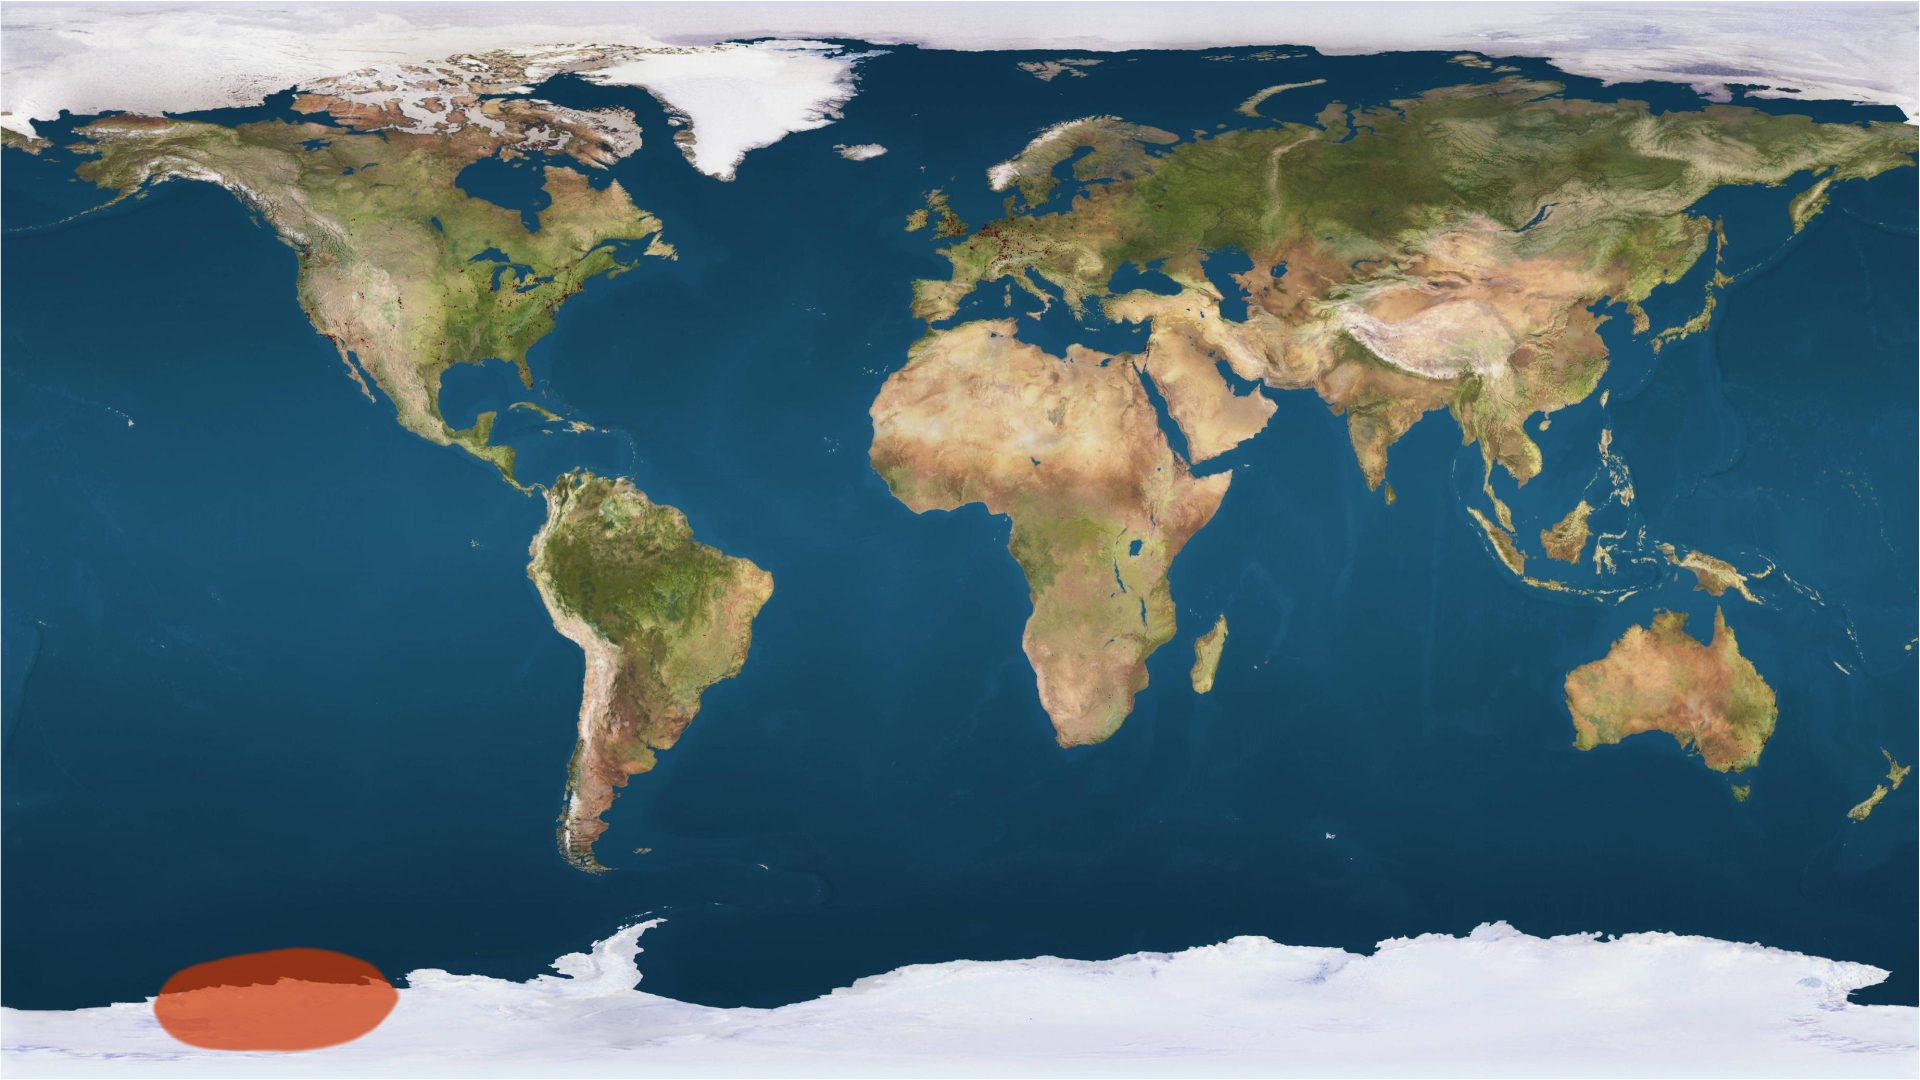
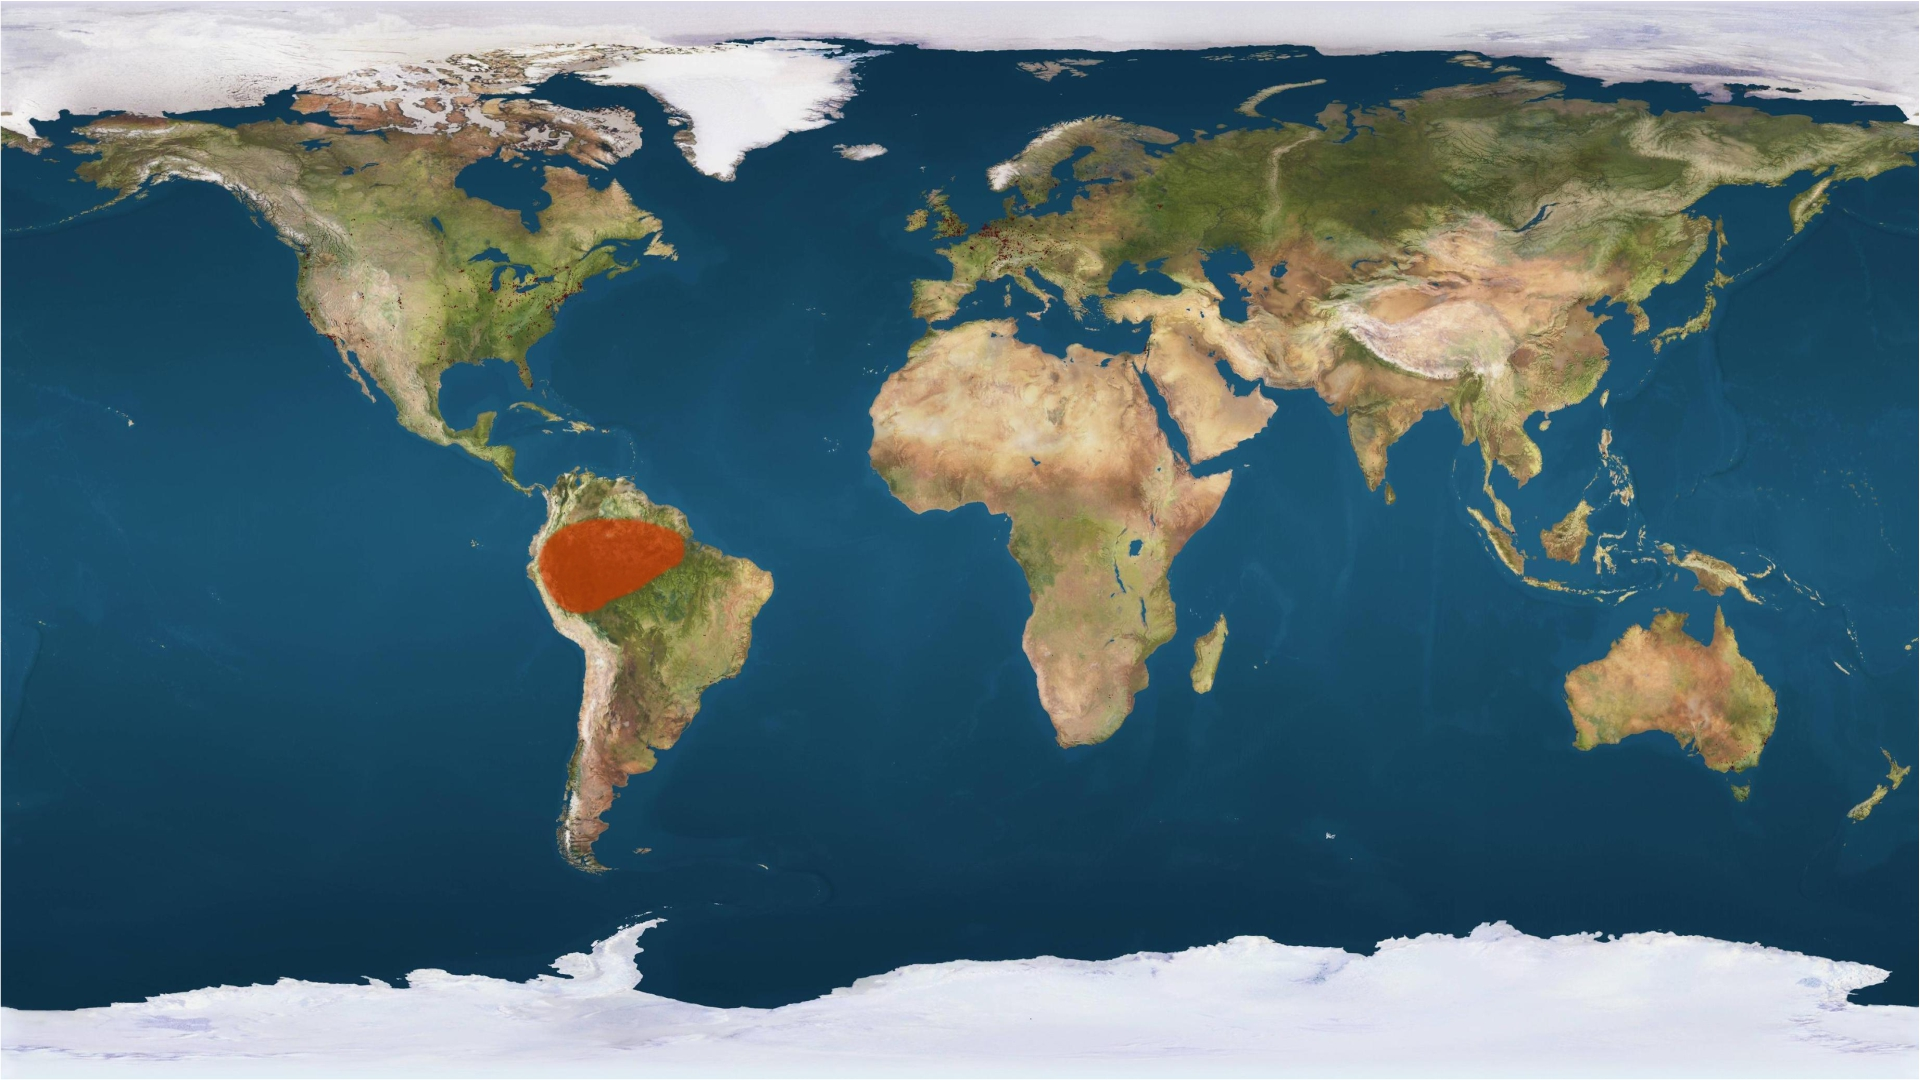
Upload 16:28

Changed region(s): [[0.0625, 0.8556, 0.2188, 0.9778], [0.2812, 0.4583, 0.375, 0.5806]]

diff --git a/assets/mappa/testo_semafori_data.js b/assets/mappa/testo_semafori_data.js
@@ -1,1 +1,1 @@
-var _testo_semafori = '[{"id":0,"semaforo": 1,"img": "1","title": "Alterazione della circolazione atlantica","testi":["L\'Atlantic Meridional Overturning Circulation (AMOC) fa parte di una più ampia rete di circolazione oceanica che trasporta calore in tutto il mondo. Si tratta di un sistema di correnti nell\'Oceano Atlantico con due componenti principali: la prima è il flusso di acqua calda e salata negli strati superiori dell\oceano verso nord partendo dal Golfo del Messico e alimentato dalla Corrente nordatlantica.","La seconda è il raffreddamento dell\'acqua che avviene alle alte latitudini dell\'Atlantico: l’acqua più densa affonda e ritorna verso l’equatore in profondità. Questa circolazione trasporta una grande quantità di energia termica dai tropici e dall\'emisfero australe verso il Nord Atlantico trasferendo calore all\'atmosfera per evaporazione.Il cambiamento climatico influisce su questo processo diluendo l\'acqua salata del mare con acqua dolce attraverso l\'aumento delle precipitazioni sull’Atlantico settentrionale subpolare e lo scioglimento del ghiaccio continentale soprattutto in prossimità della calotta glaciale della Groenlandia.","Questo rende l\'acqua più leggera e quindi meno capace di andare in profondità rallentando così l\'intero motore della circolazione.£Mentre nell\'Atlantico settentrionale si potrebbe generare un generale raffreddamento, minore evaporazione e quindi meno precipitazioni, nell\'Atlantico meridionale si assisterebbe a un riscaldamento con conseguente aumento delle inondazioni, delle emissioni di metano e della siccità, e, di conseguenza, un impatto negativo sulla produzione alimentare e sui sistemi umani. Potremmo osservare inoltre uno spostamento della zona di convergenza intertropicale, la grande area di bassa pressione che circonda la Terra vicino all\'equatore."]},{"id":1,"semaforo": 2,"img": "2","title": "Instabilità della calotta glaciale antartica occidentale","testi":["La calotta glaciale antartica occidentale (WAIS) è una porzione dell’Antartide che detiene abbastanza ghiaccio per cambiare le coste di tutto il mondo. La maggior parte dei ghiacciai dell’Antartide scorrono per gravità direttamente nelle profondità dell’oceano, la linea di messa a terra è il punto in cui la loro base lascia il fondo del mare e inizia a galleggiare trasformandosi in banchisa.","Insieme allo scioglimento dal basso causato dalle calde acque oceaniche, il riscaldamento globale sta sciogliendo la calotta da sopra, provocando una maggiore fusione della superficie. Ciò consente all’acqua di penetrare in profondità nelle lastre di ghiaccio. Successivamente quest’acqua raffreddandosi, frattura ulteriormente le lastre di ghiaccio dall’interno.","Attualmente la perdita di ghiaccio dal WAIS è compensata dalla estensione (o non arretramento) di altre regioni dell’Antartide grazie alla circolazione dell\'Oceano Australe.£Se collassasse la calotta glaciale antartica per effetto di eventi a cascata innescati dal continuo ritiro della linea di messa a terra nella regione occidentale, potrebbe causare un innalzamento del livello dei mari di 5 metri. La tendenza alla riduzione della salinità nelle acque antartiche alimentate dalla fusione del ghiaccio influenza la densità delle acque profonde e molto fredde che guidano le correnti oceaniche influenzando il clima in superficie ma soprattutto, potrebbero alterarsi i tempi dei cicli biologici iniziando dal fitoplancton, la base fondamentale della rete alimentare antartica."]}]'
+var _testo_semafori = '[{"id":1,"semaforo": 1,"img": "1","title": "Alterazione della circolazione atlantica","testi":["L\'Atlantic Meridional Overturning Circulation (AMOC) fa parte di una più ampia rete di circolazione oceanica che trasporta calore in tutto il mondo. Si tratta di un sistema di correnti nell\'Oceano Atlantico con due componenti principali: la prima è il flusso di acqua calda e salata negli strati superiori dell\oceano verso nord partendo dal Golfo del Messico e alimentato dalla Corrente nordatlantica.","La seconda è il raffreddamento dell\'acqua che avviene alle alte latitudini dell\'Atlantico: l’acqua più densa affonda e ritorna verso l’equatore in profondità. Questa circolazione trasporta una grande quantità di energia termica dai tropici e dall\'emisfero australe verso il Nord Atlantico trasferendo calore all\'atmosfera per evaporazione.Il cambiamento climatico influisce su questo processo diluendo l\'acqua salata del mare con acqua dolce attraverso l\'aumento delle precipitazioni sull’Atlantico settentrionale subpolare e lo scioglimento del ghiaccio continentale soprattutto in prossimità della calotta glaciale della Groenlandia.","Questo rende l\'acqua più leggera e quindi meno capace di andare in profondità rallentando così l\'intero motore della circolazione.£Mentre nell\'Atlantico settentrionale si potrebbe generare un generale raffreddamento, minore evaporazione e quindi meno precipitazioni, nell\'Atlantico meridionale si assisterebbe a un riscaldamento con conseguente aumento delle inondazioni, delle emissioni di metano e della siccità, e, di conseguenza, un impatto negativo sulla produzione alimentare e sui sistemi umani. Potremmo osservare inoltre uno spostamento della zona di convergenza intertropicale, la grande area di bassa pressione che circonda la Terra vicino all\'equatore."]},{"id":2,"semaforo": 2,"img": "2","title": "Instabilità della calotta glaciale antartica occidentale","testi":["La calotta glaciale antartica occidentale (WAIS) è una porzione dell’Antartide che detiene abbastanza ghiaccio per cambiare le coste di tutto il mondo. La maggior parte dei ghiacciai dell’Antartide scorrono per gravità direttamente nelle profondità dell’oceano, la linea di messa a terra è il punto in cui la loro base lascia il fondo del mare e inizia a galleggiare trasformandosi in banchisa.","Insieme allo scioglimento dal basso causato dalle calde acque oceaniche, il riscaldamento globale sta sciogliendo la calotta da sopra, provocando una maggiore fusione della superficie. Ciò consente all’acqua di penetrare in profondità nelle lastre di ghiaccio. Successivamente quest’acqua raffreddandosi, frattura ulteriormente le lastre di ghiaccio dall’interno.","Attualmente la perdita di ghiaccio dal WAIS è compensata dalla estensione (o non arretramento) di altre regioni dell’Antartide grazie alla circolazione dell\'Oceano Australe.£Se collassasse la calotta glaciale antartica per effetto di eventi a cascata innescati dal continuo ritiro della linea di messa a terra nella regione occidentale, potrebbe causare un innalzamento del livello dei mari di 5 metri. La tendenza alla riduzione della salinità nelle acque antartiche alimentate dalla fusione del ghiaccio influenza la densità delle acque profonde e molto fredde che guidano le correnti oceaniche influenzando il clima in superficie ma soprattutto, potrebbero alterarsi i tempi dei cicli biologici iniziando dal fitoplancton, la base fondamentale della rete alimentare antartica."]}]'

diff --git a/scripts/mappa/scriptSemafori.js b/scripts/mappa/scriptSemafori.js
@@ -1,129 +1,68 @@
-/* 
-var _semafori = "json";
-var semafori = JSON.parse(_semafori);
-var sel_semaforo = 0;
-var index_paragrafo = 0;
 
-function Sel_semafori(i)
-{
-    sel_semaforo = i;
-    index_paragrafo = 0;
-    $("#paragraph_image").immagine = "C://document/porcodio/map_" + semafori[i].img + ".jpg"
-
-    if(semafori[i].testi[0].split("£").lenght > 0)
-    {
-        $("paragraph_text").text = semafori[i].testi[0].split("£")[0];
-        $("paragraph_text_conseguenze").text = semafori[i].testi[0].split("£")[1];
-    }
-    else
-    {
-        $("paragraph_text").text = semafori[i].testi[0];
-    }
-    
-    
-}
-
-function clickAvanti()
-{
-    $("#avanti").show();
-    $("#indietro").show();
-
-    if(index_paragrafo < semafori[sel_semaforo].testi.lenght)
-    {
-        index_paragrafo++;
-        if(semafori[sel_semaforo].testi[index_paragrafo].split("£").lenght > 0)
-        {
-            $("#paragraph_text").text = semafori[i].testi[index_paragrafo].split("£")[0];
-            $("#paragraph_text_conseguenze").text = semafori[i].testi[index_paragrafo].split("£")[1];
-        }
-        else
-        {
-            $("#paragraph_text").text = semafori[i].testi[index_paragrafo];
-        }
-
-    }
-
-    if(index_paragrafo == semafori[sel_semaforo].testi.lenght)
-    {
-        $("#avanti").hide();
-    }
-}
-
-function clickIndietro()
-{
-    $("#avanti").show();
-    $("#indietro").show();
-
-    if(index_paragrafo > 0)
-    {
-        index_paragrafo--;
-        if(semafori[sel_semaforo].testi[index_paragrafo].split("£").lenght > 0)
-        {
-            $("#paragraph_text").text = semafori[i].testi[index_paragrafo].split("£")[0];
-            $("#paragraph_text_conseguenze").text = semafori[i].testi[index_paragrafo].split("£")[1];
-        }
-        else
-        {
-            $("#paragraph_text").text = semafori[i].testi[index_paragrafo];
-        }
-    }
-
-    if(index_paragrafo == 0)
-    {
-        $("#indietro").hide();
-    }
-}
-*/
 
 // ---------- //
 $(document).ready(function () {
-
     testoSemafori = JSON.parse(_testo_semafori);
-
 });
 
 
-
+// FUNZIONE CONTEGGIO BOTTONI AVANTI - INDIETRO 
 var buttonCounter = 0;
+var v_semaforo = 0;
+var v_index = 0;
+
+function clickIndietro() {
+
+    v_index--;
+    console.log('lunghezza array ' + testoSemafori[v_semaforo].testi.length)
+
+    if (v_index <= 0) {
+        document.getElementById('indietro_btn').style.display = 'none'
+
+    }
+    document.getElementById('avanti_btn').style.display = 'inline'
+    console.log('indietro index ' + v_index);
+    $('#textFlag').text(testoSemafori[v_semaforo].testi[v_index]);
+
+}
+
+
 
 function clickAvanti() {
-    buttonCounter++;
-    console.log('clickavanti '+buttonCounter)
-    startGame();
+
+    v_index++;
+    console.log('lunghezza array ' + testoSemafori[v_semaforo].testi.length)
+    document.getElementById('indietro_btn').style.display = 'inline'
+
+    if (v_index >= testoSemafori[v_semaforo].testi.length - 1) {
+        document.getElementById('avanti_btn').style.display = 'none'
+
+    }
+    console.log('avanti index ' + v_index);
+
+    $('#textFlag').text(testoSemafori[v_semaforo].testi[v_index]);
+
 }
 
-/*
+
+// FUNZIONE PESCAGGIO DATI DA FILE JSON
 function semaforo(param) {
-    startGame(param);
-}
-*/
-
-function startGame(param) {
+    v_index = 0;
+    v_semaforo = param;
 
 
+    //PESCO LE IMMAGINI IN BASE AL PARAMETRO CHE PASSO
+    $("#immagine").attr("src", "/assets/imgMappa/MAP" + param + ".jpg");
     $('#flag').text(testoSemafori[param].title);
-    $('#textFlag').text(testoSemafori[param].testi);
-
-    if (buttonCounter == 1) {
-        console.log('porcodio');
-
-        
-    }
-
-
-
-    if (param == 0) {
-        $("#immagine").attr("src", "/assets/imgMappa/MAP.jpg");
-
-
-    } else {
-        $("#immagine").attr("src", "/assets/imgMappa/MAP" + param + ".jpg");
-
-    }
-
-
-
+    $('#textFlag').text(testoSemafori[param].testi[v_index]);
 
 
 }
+
+
+
+
+
+
+
 

diff --git a/pages/mappa/mappa.html b/pages/mappa/mappa.html
@@ -15,10 +15,12 @@
 <body>
     <style>*{
         font-size: 30px;
-        background-color: rgba(0, 0, 0, 0.623);
-        color: white;
+        background-color: rgba(0, 0, 0, 0.13);
+        color: rgb(0, 0, 0);
     }
     img{height: 300px;width: 300px;}
+    #flag{font-size: 60px;}
+
     </style>
 
 
@@ -39,11 +41,16 @@
     <button id="semaforo1_btn" onclick="semaforo(0)">semaforo 1</button>
     <button id="semaforo2_btn" onclick="semaforo(1)">semaforo 2</button>
 
+    <button id="avanti_btn" onclick="clickAvanti()">Avanti</button>
+    <button id="indietro_btn" style="display: none;" onclick="clickIndietro()">Indietro</button>
+
+    <button onclick="prova()">Proveee</button>
 
 
 
-    <img id="immagine" src="/assets/imgMappa/MAP.jpg" />
-    <img id="avanti" src="/assets/imgMappa/right-arrow.png" alt="" onclick="clickAvanti()">
+
+    <img id="immagine" src="/assets/imgMappa/MAP_SEMAFORI.jpg" />
+    <!--<img id="avanti" src="/assets/imgMappa/right-arrow.png" alt="" onclick="clickAvanti(0)"> -->
     <img id="indietro" src="/assets/imgMappa/left-arrow.png" alt="" onclick="">
 
 
